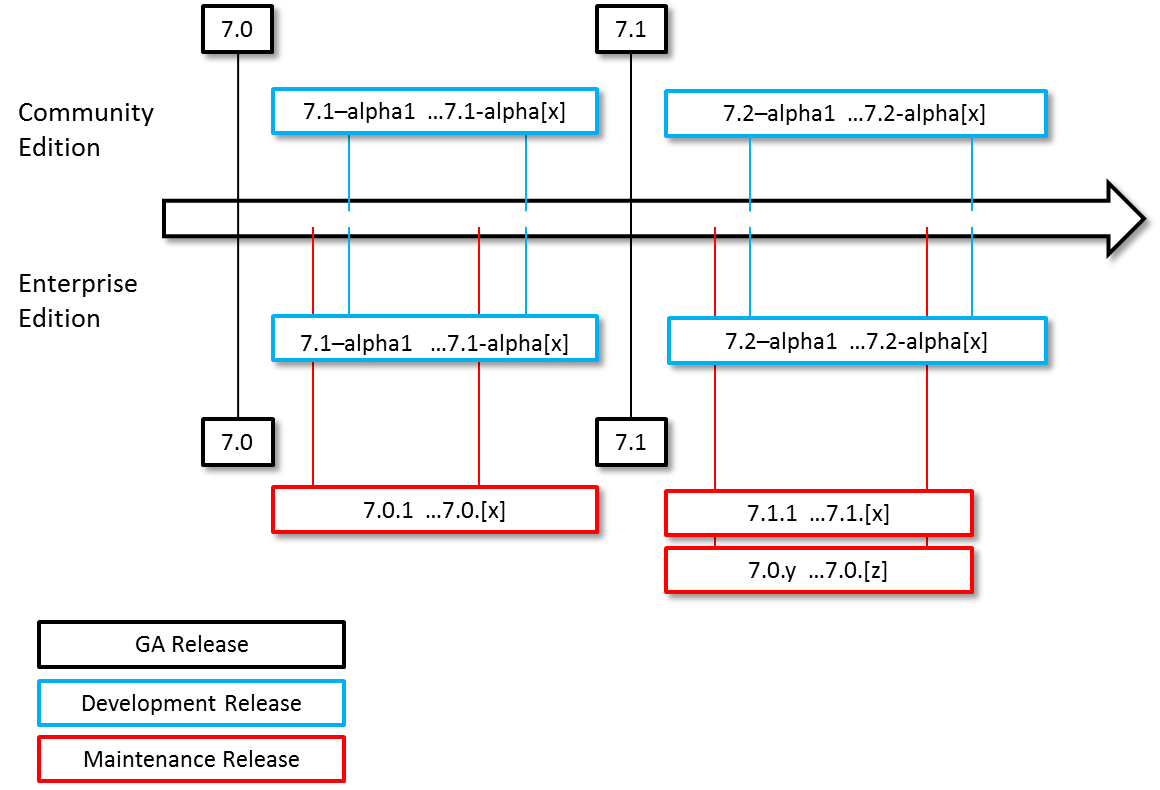
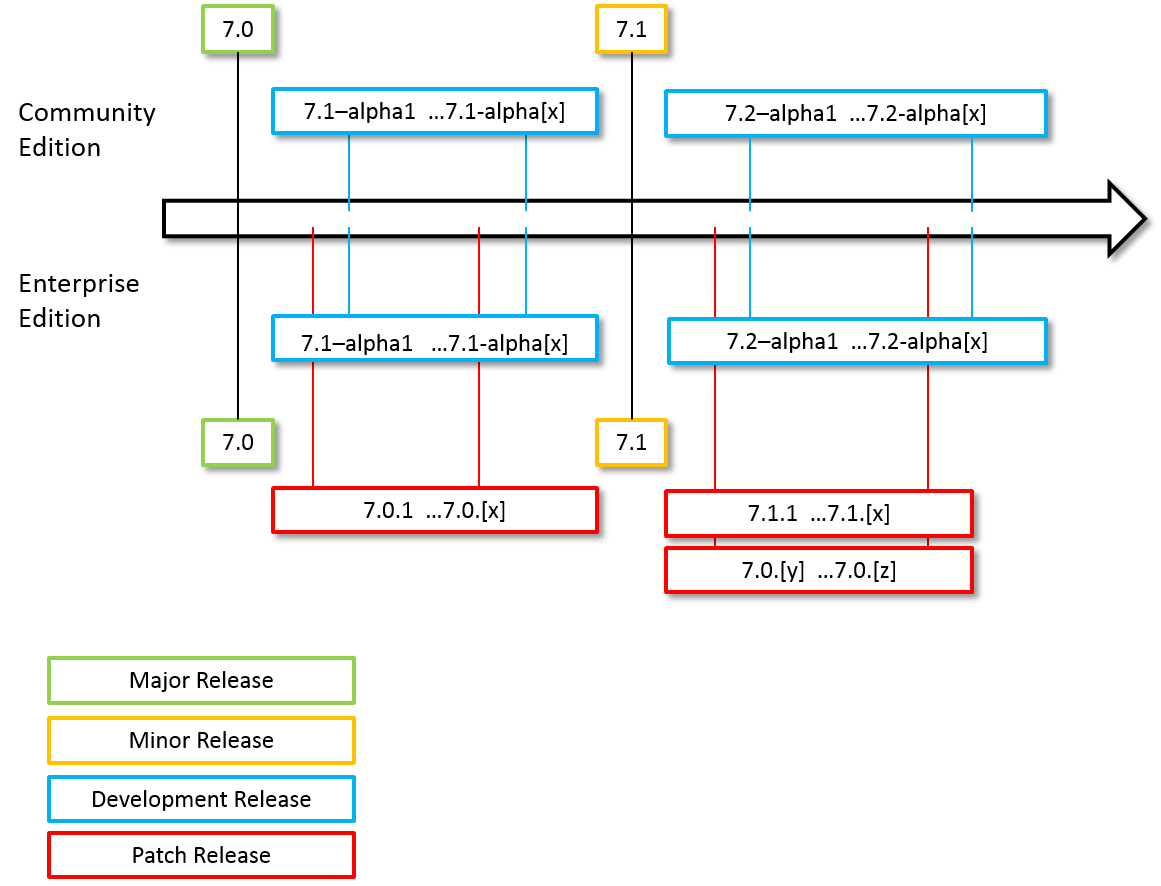
chore(enterprise): Update release chapter

diff --git a/site/src/documents/enterprise/chapters/10-downloads/10-releases.html.md b/site/src/documents/enterprise/chapters/10-downloads/10-releases.html.md
@@ -1,0 +1,20 @@
+---
+
+category: 'Downloads'
+title: 'Community vs. Enterprise Releases'
+
+---
+
+
+There is both a community and an enterprise edition of camunda BPM. Among these, we distinguish between four different types of releases:
+
+1. __Major Release__: The Major release contains features and bugfixes. It is fully tested and meant to be used for production systems. The Major release may contain incompatible API changes. The release is done in parallel for the community edition and for the enterprise edition.
+2. __Minor Release__: The Minor release contains features and bugfixes. It is fully tested and meant to be used for production systems. In Minor releases we add functionality in a backwards compatible manner. The release is done in parallel for the community edition and for the enterprise edition.
+3. __Development Release__: On the community branch and on the enterprise branch we release _ALPHA_ versions in short iteration cycles. Development releases contain the latest features and bug fixes. The Development release is not fully tested and is a snapshot of the current development state.
+4. __Maintenance Release__: On the enterprise branch we perform Maintenance releases in which we backport the latest bug fixes. Maintenance releases do not contain new features and are meant to be used for production systems. Maintenance releases are fully tested and are only available to enterprise customers.
+
+The following drawing illustrates the different release types for the community edition and the enterprise edition.
+
+<img class="img-responsive" src="ref:asset:/assets/img/releases.png"/>
+
+Find more information about our versioning semantic [here](http://semver.org/).
